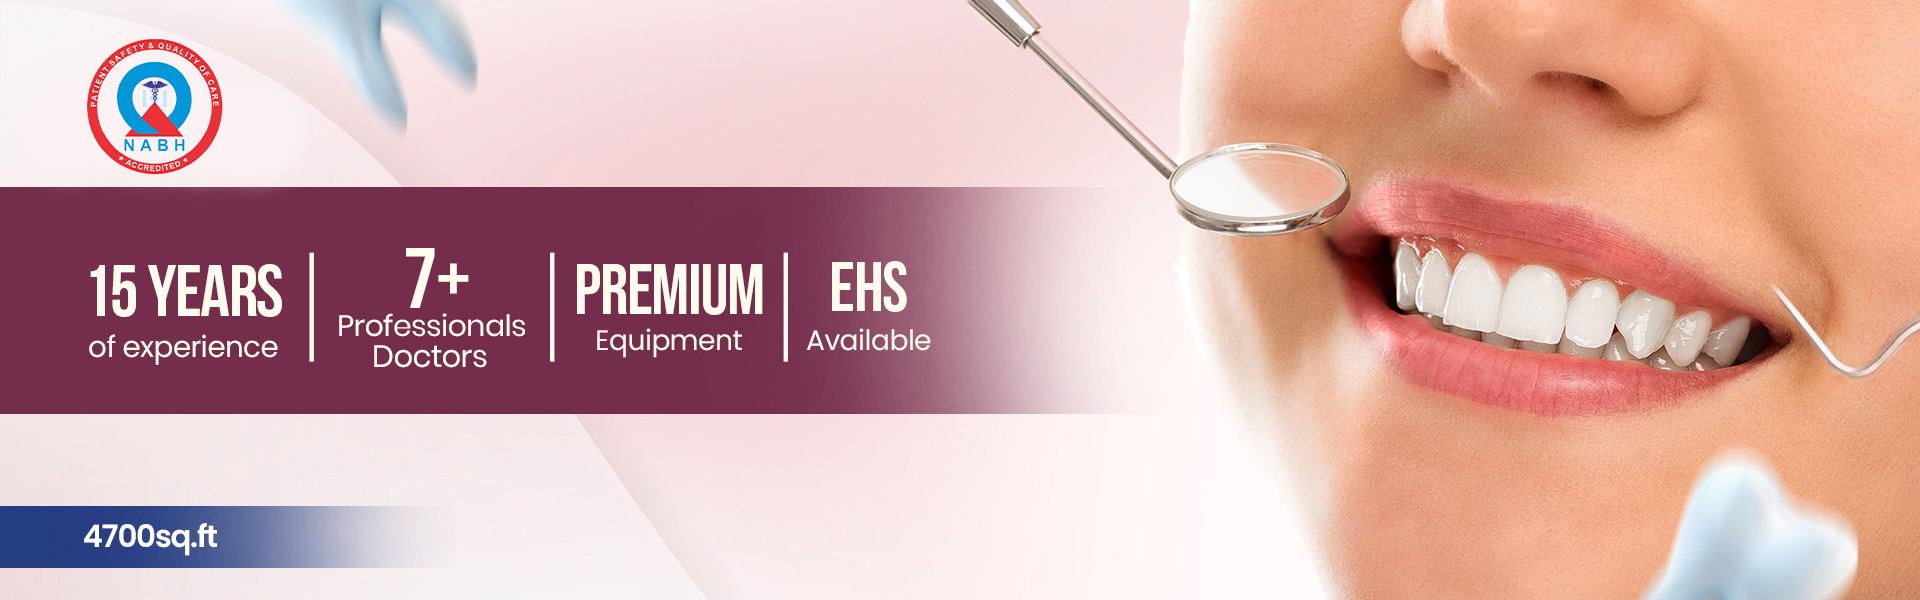
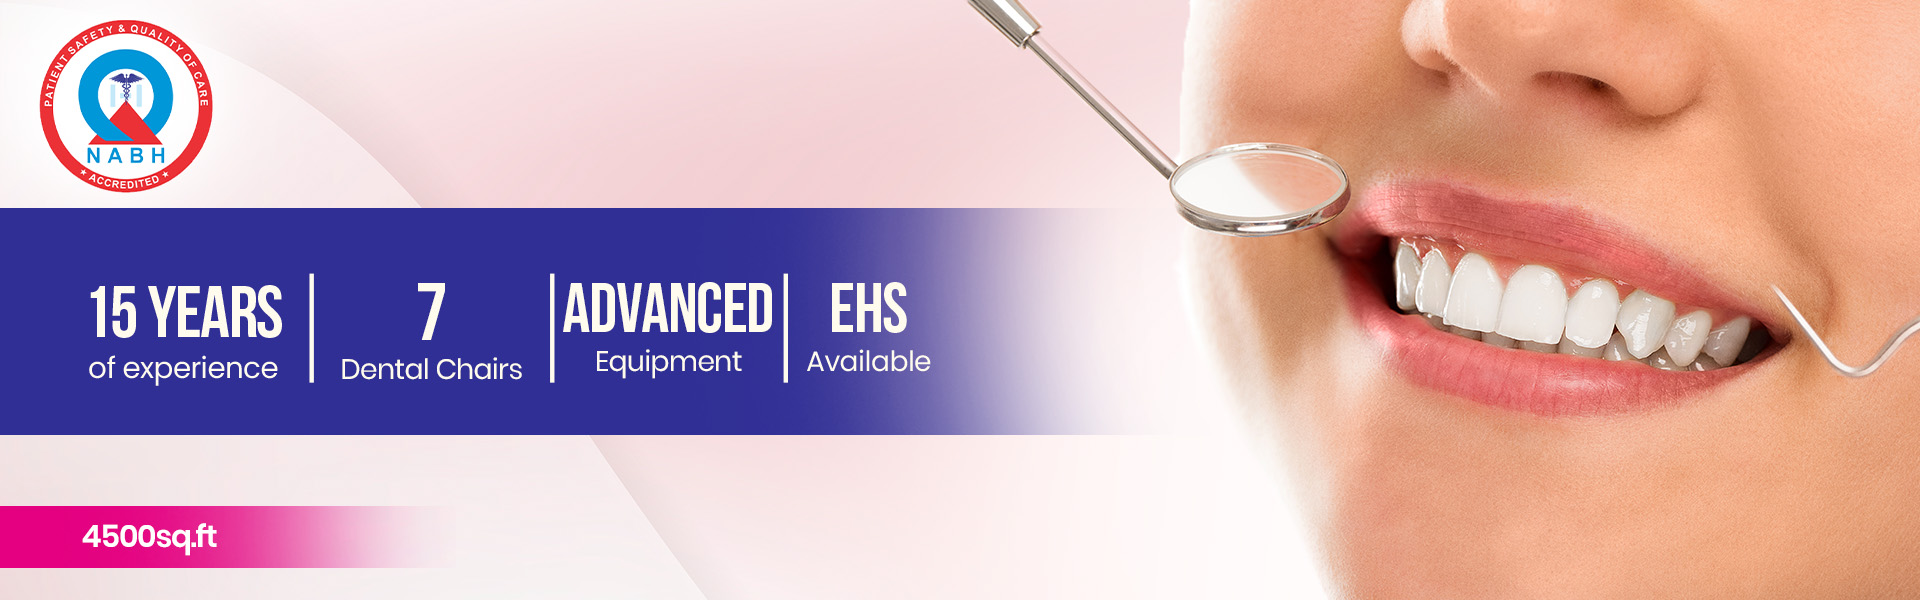
services

diff --git a/assets/css/style.css b/assets/css/style.css
@@ -11379,3 +11379,9 @@ leeela dental @media (max-width:768px) {
 
 
 
+
+
+
+
+
+

diff --git a/header.php b/header.php
@@ -61,11 +61,12 @@
   <section class="marquee-section">
     <div class="marquee_content">
       <marquee behavior="scroll" direction="left" class="marquee">
-        4700sq.ft &nbsp; | &nbsp;
+        4500sq.ft &nbsp; | &nbsp;
         15 years of experience &nbsp; | &nbsp;
-        7+ Doctor highly professional and qualified&nbsp; | &nbsp;
-        Highend Equipment &nbsp; | &nbsp;
-        EHS Available
+        7+ Dental Chairs &nbsp; | &nbsp;
+        Advanced  Equipment &nbsp; | &nbsp;
+        EHS Available&nbsp; | &nbsp;
+        NABH &nbsp;Accreditation
       </marquee>
     </div>
   </section>
@@ -85,7 +86,7 @@
         <div class="col-12 col-md-6 col-lg-3 d-none d-lg-flex align-items-center">
           <div class="header-item">
             <img src="assets/images/icon/call.png" alt="Call Icon" class="header_icons">
-            <p class="header-text">Mobile No:<br><strong> 9493782298,7674824667 </strong></p>
+            <p class="header-text">Mobile No:<br><strong> 9493782298, 7674824667 </strong></p>
           </div>
         </div>
         <div class="col-12 col-md-6 col-lg-3 d-none d-lg-flex align-items-center">
@@ -135,8 +136,10 @@
                     <li><a class="dropdown-item" href="implants.php">Implants</a></li>
                     <li><a class="dropdown-item" href="rootcanal.php">Root Canal</a></li>
                     <li><a class="dropdown-item" href="tooth_aligners.php">Tooth Aligners</a></li>
-                    <li><a class="dropdown-item" href="bridges.php">Bridges</a></li>
+                    <li><a class="dropdown-item" href="bridges.php">Crowns & Bridges </a></li>
                     <li><a class="dropdown-item" href="gum_surgery.php">Gum Surgery</a></li>
+                    <li><a class="dropdown-item" href="pediatric_dentist.php">Pediatric Dentist </a></li>
+
                     <li><a class="dropdown-item" href="maxillofacial_surgery.php">Maxillofacial Surgery</a></li>
                     <li><a class="dropdown-item" href="lasers.php">Laser Treatment</a></li>
                   </ul>
@@ -146,7 +149,7 @@
                   <ul class="dropdown-menu submenu">
                     <li><a class="dropdown-item" href="teeth_whitening.php">Teeth Whitening</a></li>
                     <li><a class="dropdown-item" href="veneers.php">Veneers</a></li>
-                    <li><a class="dropdown-item" href="composite_filler.php">Composite Filler</a></li>
+                    <li><a class="dropdown-item" href="composite_filler.php">Composite Fillings</a></li>
                     <li><a class="dropdown-item" href="teeth_jewellery.php">Teeth Jewellery</a></li>
                   </ul>
                 </li>
@@ -157,7 +160,7 @@
                 Equipment
               </a>
               <ul class="dropdown-menu">
-                <li><a class="dropdown-item" href="dental_ct_scan.php">Dental CT-Scan</a></li>
+                <li><a class="dropdown-item" href="dental_ct_scan.php">Dental Scanner</a></li>
                 <li><a class="dropdown-item" href="ray.php">3D X-Ray</a></li>
                 <li><a class="dropdown-item" href="laser_equipment.php">Laser</a></li>
               </ul>
@@ -214,7 +217,7 @@
                   <li><a class="dropdown-item" href="implants.php">Implants</a></li>
                   <li><a class="dropdown-item" href="rootcanal.php">Root Canal</a></li>
                   <li><a class="dropdown-item" href="tooth_aligners.php">Tooth Aligners</a></li>
-                  <li><a class="dropdown-item" href="bridges.php">Bridges</a></li>
+                  <li><a class="dropdown-item" href="bridges.php">Crowns & Bridges </a></li>
                   <li><a class="dropdown-item" href="gum_surgery.php">Gum Surgery</a></li>
                   <li><a class="dropdown-item" href="maxillofacial_surgery.php">Maxillofacial Surgery</a></li>
                   <li><a class="dropdown-item" href="lasers.php">Laser Treatment</a></li>
@@ -225,7 +228,7 @@
                 <ul class="dropdown-menu" id="cosmeticTreatmentSubmenu" style="display: none;">
                   <li><a class="dropdown-item" href="teeth_whitening.php">Teeth Whitening</a></li>
                   <li><a class="dropdown-item" href="veneers.php">Veneers</a></li>
-                  <li><a class="dropdown-item" href="composite_filler.php">Composite Filler</a></li>
+                  <li><a class="dropdown-item" href="composite_filler.php">Composite Fillings</a></li>
                   <li><a class="dropdown-item" href="teeth_jewellery.php">Teeth Jewellery</a></li>
                 </ul>
               </li>
@@ -236,7 +239,7 @@
           <li class="nav-item dropdown" id="equipmentDropdown">
             <a class="nav-link" href="equipment.php" onclick="toggleSubMenu(event, 'equipmentSubmenu')">Equipment</a>
             <ul class="dropdown-menu" id="equipmentSubmenu" style="display: none;">
-              <li><a class="dropdown-item" href="dental_ct_scan.php">Dental CT-Scan</a></li>
+              <li><a class="dropdown-item" href="dental_ct_scan.php">Dental Scanner </a></li>
               <li><a class="dropdown-item" href="ray.php">3D X-Ray</a></li>
               <li><a class="dropdown-item" href="laser_equipment.php">Laser</a></li>
             </ul>
@@ -313,3 +316,4 @@
 });
 
 </script>
+

diff --git a/bridges.php b/bridges.php
@@ -4,76 +4,15 @@
 
 <img src="assets/img/sliders_images/bridges.png" class="img-fluid service_img" alt="">
 
-<!-- <section class="mt-5">
-    <div class="container">
-        <div class="row">
-            <div class="col-12 col-md-6  animate__animated animate__fadeInRight">
-                <p>
-                A dental bridge is a restorative dental treatment designed to replace one or more missing teeth. It consists of a false tooth or teeth, which are anchored to the neighboring natural teeth or dental implants. Dental bridges are typically used when a patient has one or more missing teeth and wants to restore the function, appearance, and overall health of their smile.
-                </p>
-                <p >
-                The primary purpose of a dental bridge is to fill the gap left by a missing tooth, restoring the ability to chew and speak properly. It also helps prevent the surrounding teeth from shifting into the gap, which could lead to further dental issues. Bridges are made from durable materials such as porcelain, ceramic, or metal, designed to match the natural color of your teeth, ensuring that the bridge blends seamlessly with your smile.
+    
 
-
-
-
-                </p>
-            </div>
-            <div class="col-md-6 col-12 animate__animated animate__FadeInRight">
-                <img src="./assets/images/services2/rootcanal.png" alt="" class="img-fluid">
-            </div>
-        </div>
-
-    </div>
-</section> -->
-
-<!-- <section>
-    <div class="section about-area section-padding">
-        <div class="container">
-            <div class="about-wrapper">
-
-                    <div class="container implants_content ">
-                        <h1 class="text-center ">
-                            Bridges Treatment </h1>
-                        <p class="text-center" style="gap:10px;"> Restoring Missing Teeth for a Complete Smile
-                            Durable Solutions to Enhance Function and Aesthetics</p>
-                    </div>
-               
-
-                <div class="row align-items-center">
-                    <div class="col-lg-6 col-md-6">
-
-                        <div class="about-img ">
-                            <img src="./assets/images/services2/bridges.png" alt="" class="img-fluid">
-                        </div>
-
-                    </div>
-                    <div class="col-lg-6 col-md-6">
-
-                        <div class="about-text" data-animation="fadeInUp" data-delay="0.9s">
-                            <p>
-                                A dental bridge is a restorative dental treatment designed to replace one or more missing teeth. It consists of a false tooth or teeth, which are anchored to the neighboring natural teeth or dental implants. Dental bridges are typically used when a patient has one or more missing teeth and wants to restore the function, appearance, and overall health of their smile.
-
-                            </p>
-                            <p>
-                                The primary purpose of a dental bridge is to fill the gap left by a missing tooth, restoring the ability to chew and speak properly. It also helps prevent the surrounding teeth from shifting into the gap, which could lead to further dental issues. Bridges are made from durable materials such as porcelain, ceramic, or metal, designed to match the natural color of your teeth, ensuring that the bridge blends seamlessly with your smile.
-                            </p>
-                        </div>
-
-                    </div>
-                </div>
-
-            </div>
-        </div>
-    </div>
-</section> -->
 <section class="service_section my-5">
     <div class="container">
         <div class="row">
 
             <div class="service_contain_text">
 
-                <h1 class="implants_treatment">Bridge Treatment</h1>
+                <h1 class="implants_treatment">Crowns & Bridges Treatment</h1>
                 <p>
                     A dental bridge is a restorative solution used to replace one or more missing teeth, bridging the gap left behind by a missing tooth. It consists of two or more crowns placed on the adjacent healthy teeth, with a false tooth (pontic) in between, to fill the space.
 

diff --git a/dental_ct_scan.php b/dental_ct_scan.php
@@ -6,11 +6,11 @@
             <div class="col-lg-12">
                 <!--  Page Banner Title Start -->
                 <div class="page-banner-title text-center">
-                    <h2 class="title">Dental CT Scan</h2>
+                    <h2 class="title">Dental Scanner</h2>
                     <!--  Page Banner Breadcrumb Start -->
                     <ul class="breadcrumb justify-content-center">
                         <li class="breadcrumb-item"><a href="index.php">Home</a></li>
-                        <li class="breadcrumb-item active" aria-current="page">dental-CT-Scan</li>
+                        <li class="breadcrumb-item active" aria-current="page">Dental Scanner</li>
                     </ul>
                     <!--  Page Banner Breadcrumb End -->
                 </div>
@@ -54,7 +54,7 @@
             <div class="about-wrapper">
                 <div class="container implants_content ">
                     <h1 class="text-center">
-                        Dental CT Scan Equipment</h1>
+                        Dental Scanner Equipment</h1>
                     <p class="text-center"> Advanced Imaging for Precise Diagnosis
                         Revolutionizing Treatment Planning with 3D Imaging Technology </p>
                 </div>
@@ -73,12 +73,12 @@
                         <div class="about-text" data-animation="fadeInUp" data-delay="0.9s">
                             <p>
                                 <!-- A Dental CT Scan (Cone Beam Computed Tomography – CBCT) is a state-of-the-art imaging technology that provides detailed 3D views of the teeth, jawbones, nerves, and surrounding structures. Unlike traditional X-rays, which offer only two-dimensional images, CBCT scans allow dentists to examine complex anatomical details with high accuracy. -->
-                                At Leela Dental, we utilize the latest Dental CT Scan (Cone Beam Computed Tomography) technology to offer the most advanced imaging solutions available. This revolutionary technology allows us to obtain highly detailed, three-dimensional images of the teeth, jaw, and surrounding structures, facilitating accurate diagnoses and the development of tailored treatment plans.
+                                A dental scanner provides a detailed digital impression of your teeth, ensuring accuracy in diagnosis and treatment. At Krishna Dental Cure, Rajahmundry, we use advanced 3D intraoral scanning technology to replace traditional impressions, offering a comfortable, quick, and highly precise solution for various dental procedures.
 
 
                             </p>
                             <p>
-                                This advanced imaging technique is commonly used for dental implant planning, root canal evaluation, wisdom tooth extraction, orthodontic treatment, and diagnosing jaw disorders or oral pathologies. It helps in detecting hidden infections, bone abnormalities, and nerve positions, ensuring safe and effective treatment.
+                            Unlike traditional molds, a dental scanner captures high-resolution 3D images in seconds, improving treatment planning for braces, crowns, and implants. This painless, mess-free process ensures better-fitting restorations and enhances patient comfort, making procedures like aligners, veneers, and bite analysis more efficient and accurate.
                             </p>
                         </div>
 

diff --git a/pediatric_dentist.php b/pediatric_dentist.php
@@ -1,0 +1,73 @@
+<?php include "./header.php"; ?>
+
+
+
+<img src="assets/img/sliders_images/Maxillofacial.png" class="img-fluid service_img" alt="">
+
+
+ 
+<section class="service_section my-5">
+    <div class="container">
+        <div class="row">
+
+            <div class="service_contain_text">
+
+                <h1 class="implants_treatment">Pediatric Dentist Treatment</h1>
+                <p>
+                Pediatric dentistry is a specialized branch of dentistry focused on the oral health of infants, children, and teenagers. It involves preventive and therapeutic dental care to ensure proper growth and development of teeth and gums. Pediatric dentists are trained to handle children’s unique dental needs, making treatments comfortable and stress-free.
+
+</p>
+
+                
+            </div>
+        </div>
+    </div>
+</section>
+
+
+<section class="section_color my-5">
+    <div class="container">
+        <h4 class="root_step text-center mt-5">
+        Pediatric Dentist Surgery
+        </h4>
+        <div class="row my-3">
+            <div class="col-12 col-md-4  card-wrapper ">
+                <div class="card">
+                    <img src="./assets/img/services/maxillofacial _surgery/maxillofacial _surgery_1.png" alt="" class="img-fluid">
+                    <h4 class="canal_step">Step1</h4>
+                    <p>
+                    A comprehensive dental check-up, including X-rays and oral assessments, helps evaluate the child’s teeth and jaw development. Preventive care such as fluoride treatments and sealants is recommended to protect against cavities.
+
+
+</p>
+                </div>
+            </div>
+            <div class="col-12 col-md-4  card-wrapper">
+                <div class="card">
+                    <img src="./assets/img/services/maxillofacial _surgery/maxillofacial _surgery_2.png" alt="" class="img-fluid">
+                    <h4 class="canal_step">Step2</h4>
+                    <p>
+                    If treatment is needed, the child is kept comfortable with gentle techniques or sedation. Procedures may include cavity fillings, orthodontic care, or gum disease management, all performed in a child-friendly environment.
+
+
+</p>
+                </div>
+            </div>
+            <div class="col-12 col-md-4  card-wrapper">
+                <div class="card">
+                    <img src="./assets/img/services/maxillofacial _surgery/maxillofacial _surgery_3.png" alt="" class="img-fluid">
+                    <h4 class="canal_step">Step3</h4>
+                    <p>
+                    Post-treatment care includes oral hygiene tips, dietary guidance, and follow-up recommendations. Regular check-ups ensure continued oral health and a confident smile for life.
+
+
+</p>
+                </div>
+            </div>
+        </div>
+    </div>
+</section>
+
+
+
+<?php include "./footer.php"; ?>

diff --git a/services.php b/services.php
@@ -118,7 +118,7 @@
                         <div class="col-lg-8">
                             <div class="section-title text-center">
 
-                                <h2 class="title  ">Our Dental Services</h2>
+                                <h2 class="title  "> Dental Treatments</h2>
                             </div>
                         </div>
                         <!-- Section Title End -->
@@ -288,7 +288,7 @@
                                 <div class="col-lg-8">
                                     <div class="section-title text-center">
 
-                                        <h2 class="title my-5 ">Cosmetic Dental Services</h2>
+                                        <h2 class="title my-5 ">Cosmetic  Treatments</h2>
                                     </div>
                                 </div>
                                 <!-- Section Title End -->

diff --git a/cosmetic_treatment.php b/cosmetic_treatment.php
@@ -4,17 +4,17 @@
     <div class="container">
         <div class="row">
             <div class="col-lg-12">
-                <!--  Page Banner Title Start -->
+               
                 <div class="page-banner-title text-center">
                     <h2 class="title">Cosmetic-Treatment</h2>
-                    <!--  Page Banner Breadcrumb Start -->
+                  
                     <ul class="breadcrumb justify-content-center">
                         <li class="breadcrumb-item"><a href="index.php">Home</a></li>
                         <li class="breadcrumb-item active" aria-current="page">Cosmetic-Treatment</li>
                     </ul>
-                    <!--  Page Banner Breadcrumb End -->
+                  
                 </div>
-                <!--  Page Banner Title End -->
+               
             </div>
         </div>
     </div>

diff --git a/composite_filler.php b/composite_filler.php
@@ -12,7 +12,7 @@
 
             <div class="service_contain_text">
 
-                <h1 class="implants_treatment">Composite Filler</h1>
+                <h1 class="implants_treatment">Composite Fillings</h1>
                 <p>
                 Composite filling treatment is a restorative dental procedure used to repair decayed, chipped, cracked, or worn-down teeth. Unlike traditional silver (amalgam) fillings, composite fillings are made from a tooth-colored resin material, providing a natural and seamless appearance.
                 </p>
@@ -27,7 +27,7 @@
 <section class="section_color my-5">
     <div class="container">
         <h4 class="root_step text-center mt-5">
-        Composite Filler
+        Composite Fillings
         </h4>
         <div class="row my-3">
             <div class="col-12 col-md-4  card-wrapper ">

diff --git a/footer.php b/footer.php
@@ -108,7 +108,7 @@
 
                                  <li>
                                      <i class="ri-check-line"></i>
-                                     <a href="composite_filler.php"> Composit Filler</a>
+                                     <a href="composite_filler.php"> Composit Fillings</a>
                                  </li>
                                  <li>
                                      <i class="ri-check-line"></i>

diff --git a/clips_braces.php b/clips_braces.php
@@ -25,7 +25,7 @@
 </section> -->
 
 
-<section>
+<!-- <section>
     <div class="section about-area section-padding">
         <div class="container">
             <div class="about-wrapper">
@@ -64,5 +64,10 @@
             </div>
         </div>
     </div>
-</section>
+</section> -->
+
+
+
+
+
 <?php include "./footer.php"; ?>

diff --git a/gum_surgery.php b/gum_surgery.php
@@ -101,7 +101,7 @@
 <section class="section_color my-5">
     <div class="container">
         <h4 class="root_step text-center mt-5">
-            Gum surger
+            Gum Surgery
         </h4>
         <div class="row my-3">
             <div class="col-12 col-md-4  card-wrapper ">
